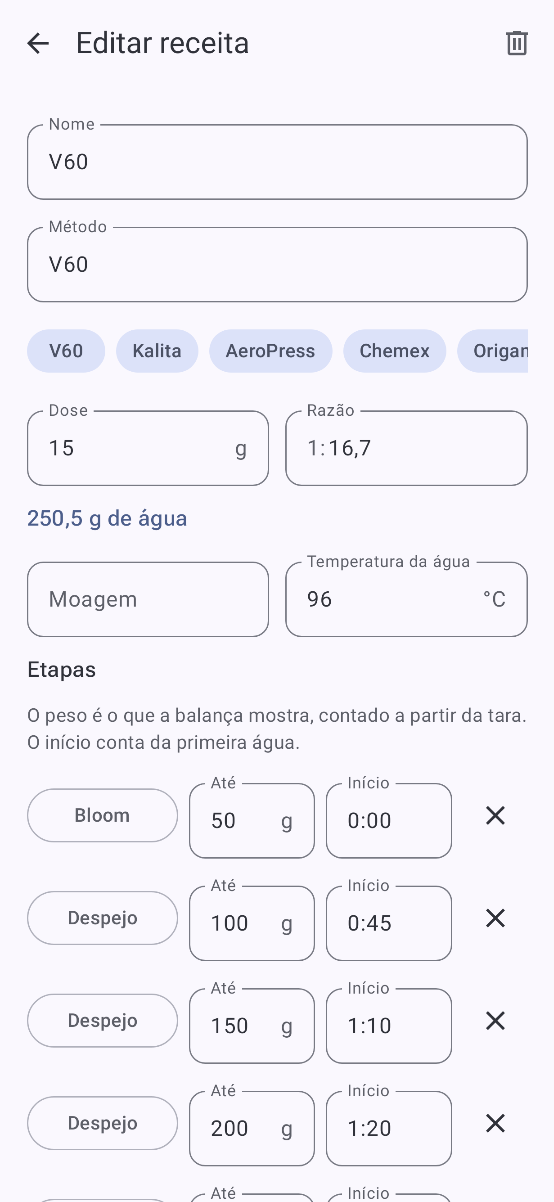
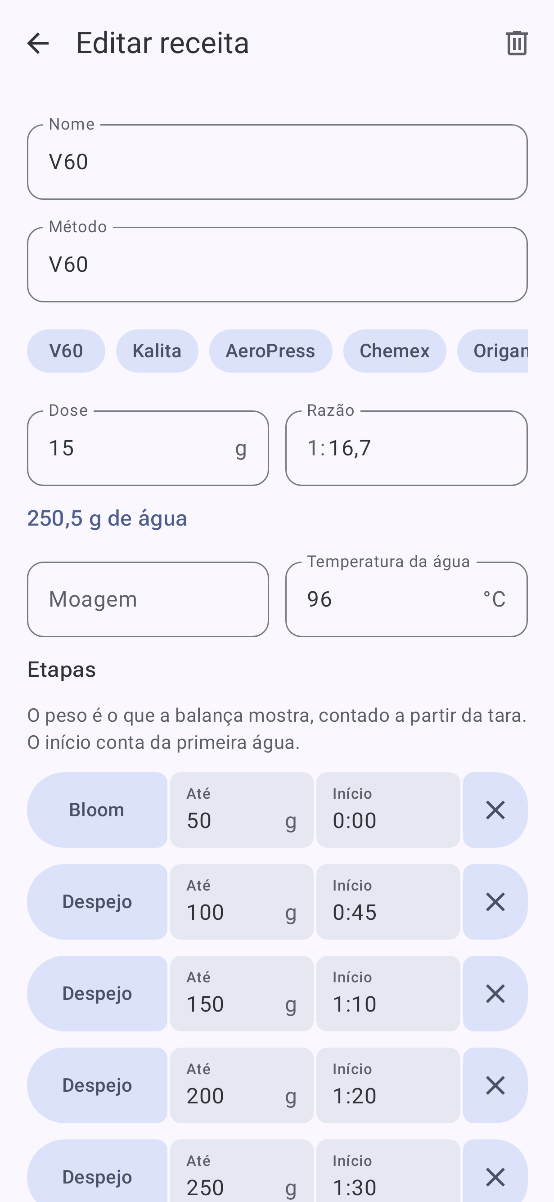
Recipe editor steps as connected groups: kind, weight, start and remove

diff --git a/app/src/main/java/io/github/mateuxlucax/caparao/ui/recipes/RecipeEditorScreen.kt b/app/src/main/java/io/github/mateuxlucax/caparao/ui/recipes/RecipeEditorScreen.kt
@@ -1,6 +1,15 @@
 package io.github.mateuxlucax.caparao.ui.recipes
 
 import androidx.activity.compose.BackHandler
+import androidx.compose.ui.graphics.SolidColor
+import androidx.compose.ui.graphics.Shape
+import androidx.compose.material3.FilledTonalIconButton
+import androidx.compose.foundation.text.BasicTextField
+import androidx.compose.foundation.shape.RoundedCornerShape
+import androidx.compose.foundation.shape.CornerSize
+import androidx.compose.foundation.layout.PaddingValues
+import androidx.compose.foundation.layout.fillMaxHeight
+import androidx.compose.foundation.background
 import androidx.compose.foundation.horizontalScroll
 import androidx.compose.foundation.layout.Arrangement
 import androidx.compose.foundation.layout.Box
@@ -158,18 +167,7 @@ private fun Steps(steps: List<StepForm>, error: Boolean, viewModel: RecipeEditor
     Text(stringResource(R.string.recipe_steps), style = MaterialTheme.typography.titleMedium)
     Text(stringResource(R.string.recipe_steps_text), style = MaterialTheme.typography.bodyMedium, color = MaterialTheme.colorScheme.onSurfaceVariant)
     steps.forEachIndexed { index, step ->
-        Row(verticalAlignment = Alignment.CenterVertically, horizontalArrangement = Arrangement.spacedBy(8.dp)) {
-            KindPicker(step.kind, Modifier.width(112.dp)) { viewModel.updateStep(index, step.copy(kind = it)) }
-            if (step.kind.pours) {
-                TextField(step.weight, { viewModel.updateStep(index, step.copy(weight = it)) }, R.string.step_weight, error, null, Modifier.weight(1f), suffix = stringResource(R.string.unit_grams))
-            } else {
-                Box(Modifier.weight(1f))
-            }
-            TextField(step.start, { viewModel.updateStep(index, step.copy(start = it)) }, R.string.step_start, error, null, Modifier.weight(1f), clock = true)
-            IconButton(shapes = IconButtonDefaults.shapes(), onClick = { viewModel.removeStep(index) }) {
-                Icon(painterResource(R.drawable.ic_close), contentDescription = stringResource(R.string.remove_step))
-            }
-        }
+        StepRow(step, error, { viewModel.updateStep(index, it) }, { viewModel.removeStep(index) })
     }
     if (error) ErrorText(if (steps.isEmpty()) R.string.recipe_error_no_steps else R.string.recipe_error_steps)
     OutlinedButton(shapes = ButtonDefaults.shapes(), onClick = viewModel::addStep) {
@@ -178,11 +176,38 @@ private fun Steps(steps: List<StepForm>, error: Boolean, viewModel: RecipeEditor
     }
 }
 
+// One connected group per step, like a button group: kind, weight, start and remove share a height, 2dp gaps, small
+// inner corners and full outer ones.
 @Composable
-private fun KindPicker(kind: StepKind, modifier: Modifier, onPick: (StepKind) -> Unit) {
+private fun StepRow(step: StepForm, error: Boolean, onChange: (StepForm) -> Unit, onRemove: () -> Unit) {
+    val inner = CornerSize(8.dp)
+    val outer = CornerSize(50)
+    val start = RoundedCornerShape(outer, inner, inner, outer)
+    val middle = RoundedCornerShape(inner)
+    val end = RoundedCornerShape(inner, outer, outer, inner)
+    Row(Modifier.fillMaxWidth().height(StepHeight), horizontalArrangement = Arrangement.spacedBy(2.dp)) {
+        KindPicker(step.kind, start, Modifier.width(104.dp).fillMaxHeight()) { onChange(step.copy(kind = it)) }
+        if (step.kind.pours) {
+            StepField(step.weight, { onChange(step.copy(weight = it)) }, R.string.step_weight, error, middle, Modifier.weight(1f), suffix = stringResource(R.string.unit_grams))
+        } else {
+            Box(Modifier.weight(1f).fillMaxHeight().background(MaterialTheme.colorScheme.surfaceContainer, middle))
+        }
+        StepField(step.start, { onChange(step.copy(start = it)) }, R.string.step_start, error, middle, Modifier.weight(1f), clock = true)
+        FilledTonalIconButton(onClick = onRemove, shape = end, modifier = Modifier.width(48.dp).fillMaxHeight()) {
+            Icon(painterResource(R.drawable.ic_close), contentDescription = stringResource(R.string.remove_step))
+        }
+    }
+}
+
+private val StepHeight = 56.dp
+
+@Composable
+private fun KindPicker(kind: StepKind, shape: Shape, modifier: Modifier, onPick: (StepKind) -> Unit) {
     var open by rememberSaveable { mutableStateOf(false) }
     Box(modifier) {
-        OutlinedButton(shapes = ButtonDefaults.shapes(), onClick = { open = true }, modifier = Modifier.fillMaxWidth()) { Text(stringResource(kind.label), maxLines = 1) }
+        FilledTonalButton(onClick = { open = true }, shape = shape, contentPadding = PaddingValues(horizontal = 12.dp), modifier = Modifier.fillMaxSize()) {
+            Text(stringResource(kind.label), maxLines = 1)
+        }
         DropdownMenu(expanded = open, onDismissRequest = { open = false }, shape = MaterialTheme.shapes.large) {
             StepKind.entries.forEach { entry ->
                 DropdownMenuItem(
@@ -194,6 +219,42 @@ private fun KindPicker(kind: StepKind, modifier: Modifier, onPick: (StepKind) ->
                         null
                     },
                 )
+            }
+        }
+    }
+}
+
+// A filled field without the indicator line, its label small inside, so it reads as one segment of the step group.
+@Composable
+private fun StepField(
+    value: String,
+    onValue: (String) -> Unit,
+    label: Int,
+    isError: Boolean,
+    shape: Shape,
+    modifier: Modifier,
+    suffix: String? = null,
+    clock: Boolean = false,
+) {
+    val colors = MaterialTheme.colorScheme
+    val textStyle = MaterialTheme.typography.bodyLarge
+    BasicTextField(
+        value = value,
+        onValueChange = { v -> onValue(if (clock) v.filter { it.isDigit() || it == ':' }.take(5) else v.filter { it.isDigit() || it == ',' || it == '.' }.take(6)) },
+        modifier = modifier.fillMaxHeight(),
+        singleLine = true,
+        textStyle = textStyle.copy(color = colors.onSurface),
+        cursorBrush = SolidColor(colors.primary),
+        keyboardOptions = KeyboardOptions(keyboardType = if (clock) KeyboardType.Number else KeyboardType.Decimal),
+    ) { inner ->
+        Column(
+            Modifier.fillMaxSize().background(if (isError) colors.errorContainer else colors.surfaceContainerHigh, shape).padding(horizontal = 12.dp),
+            verticalArrangement = Arrangement.Center,
+        ) {
+            Text(stringResource(label), style = MaterialTheme.typography.labelSmall, color = if (isError) colors.onErrorContainer else colors.onSurfaceVariant, maxLines = 1)
+            Row(verticalAlignment = Alignment.Bottom) {
+                Box(Modifier.weight(1f)) { inner() }
+                suffix?.let { Text(it, style = textStyle, color = colors.onSurfaceVariant) }
             }
         }
     }
